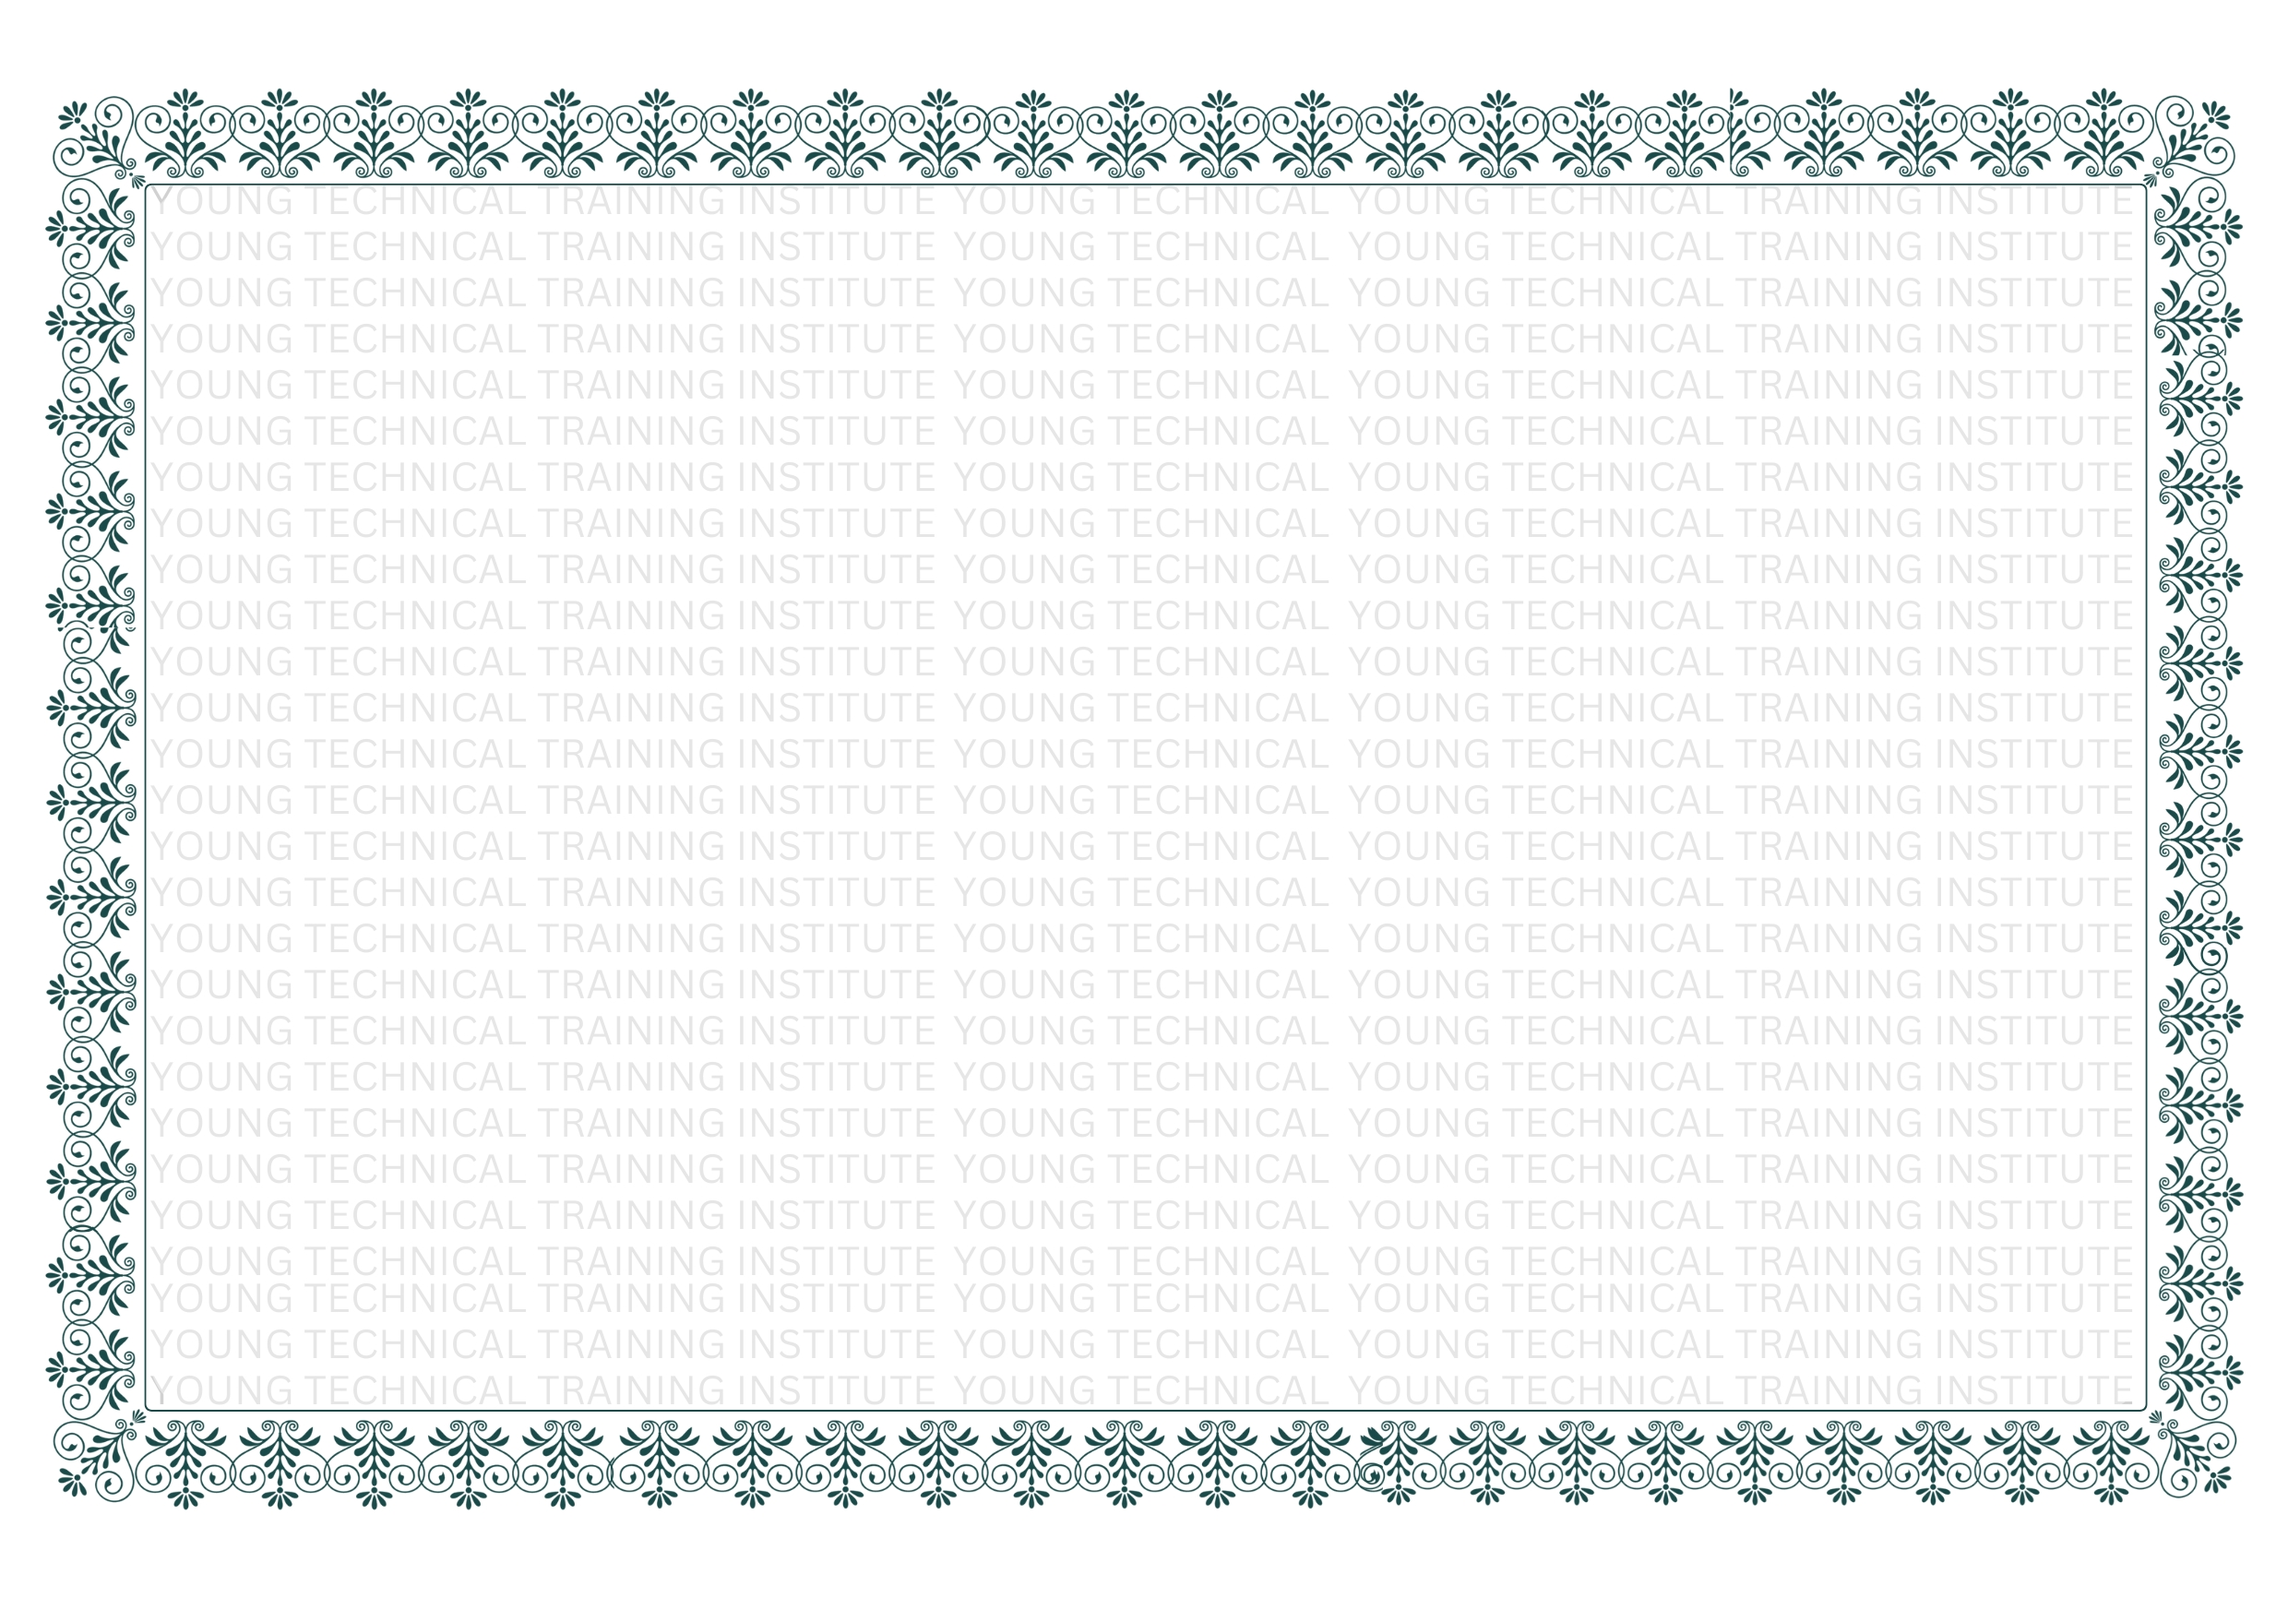
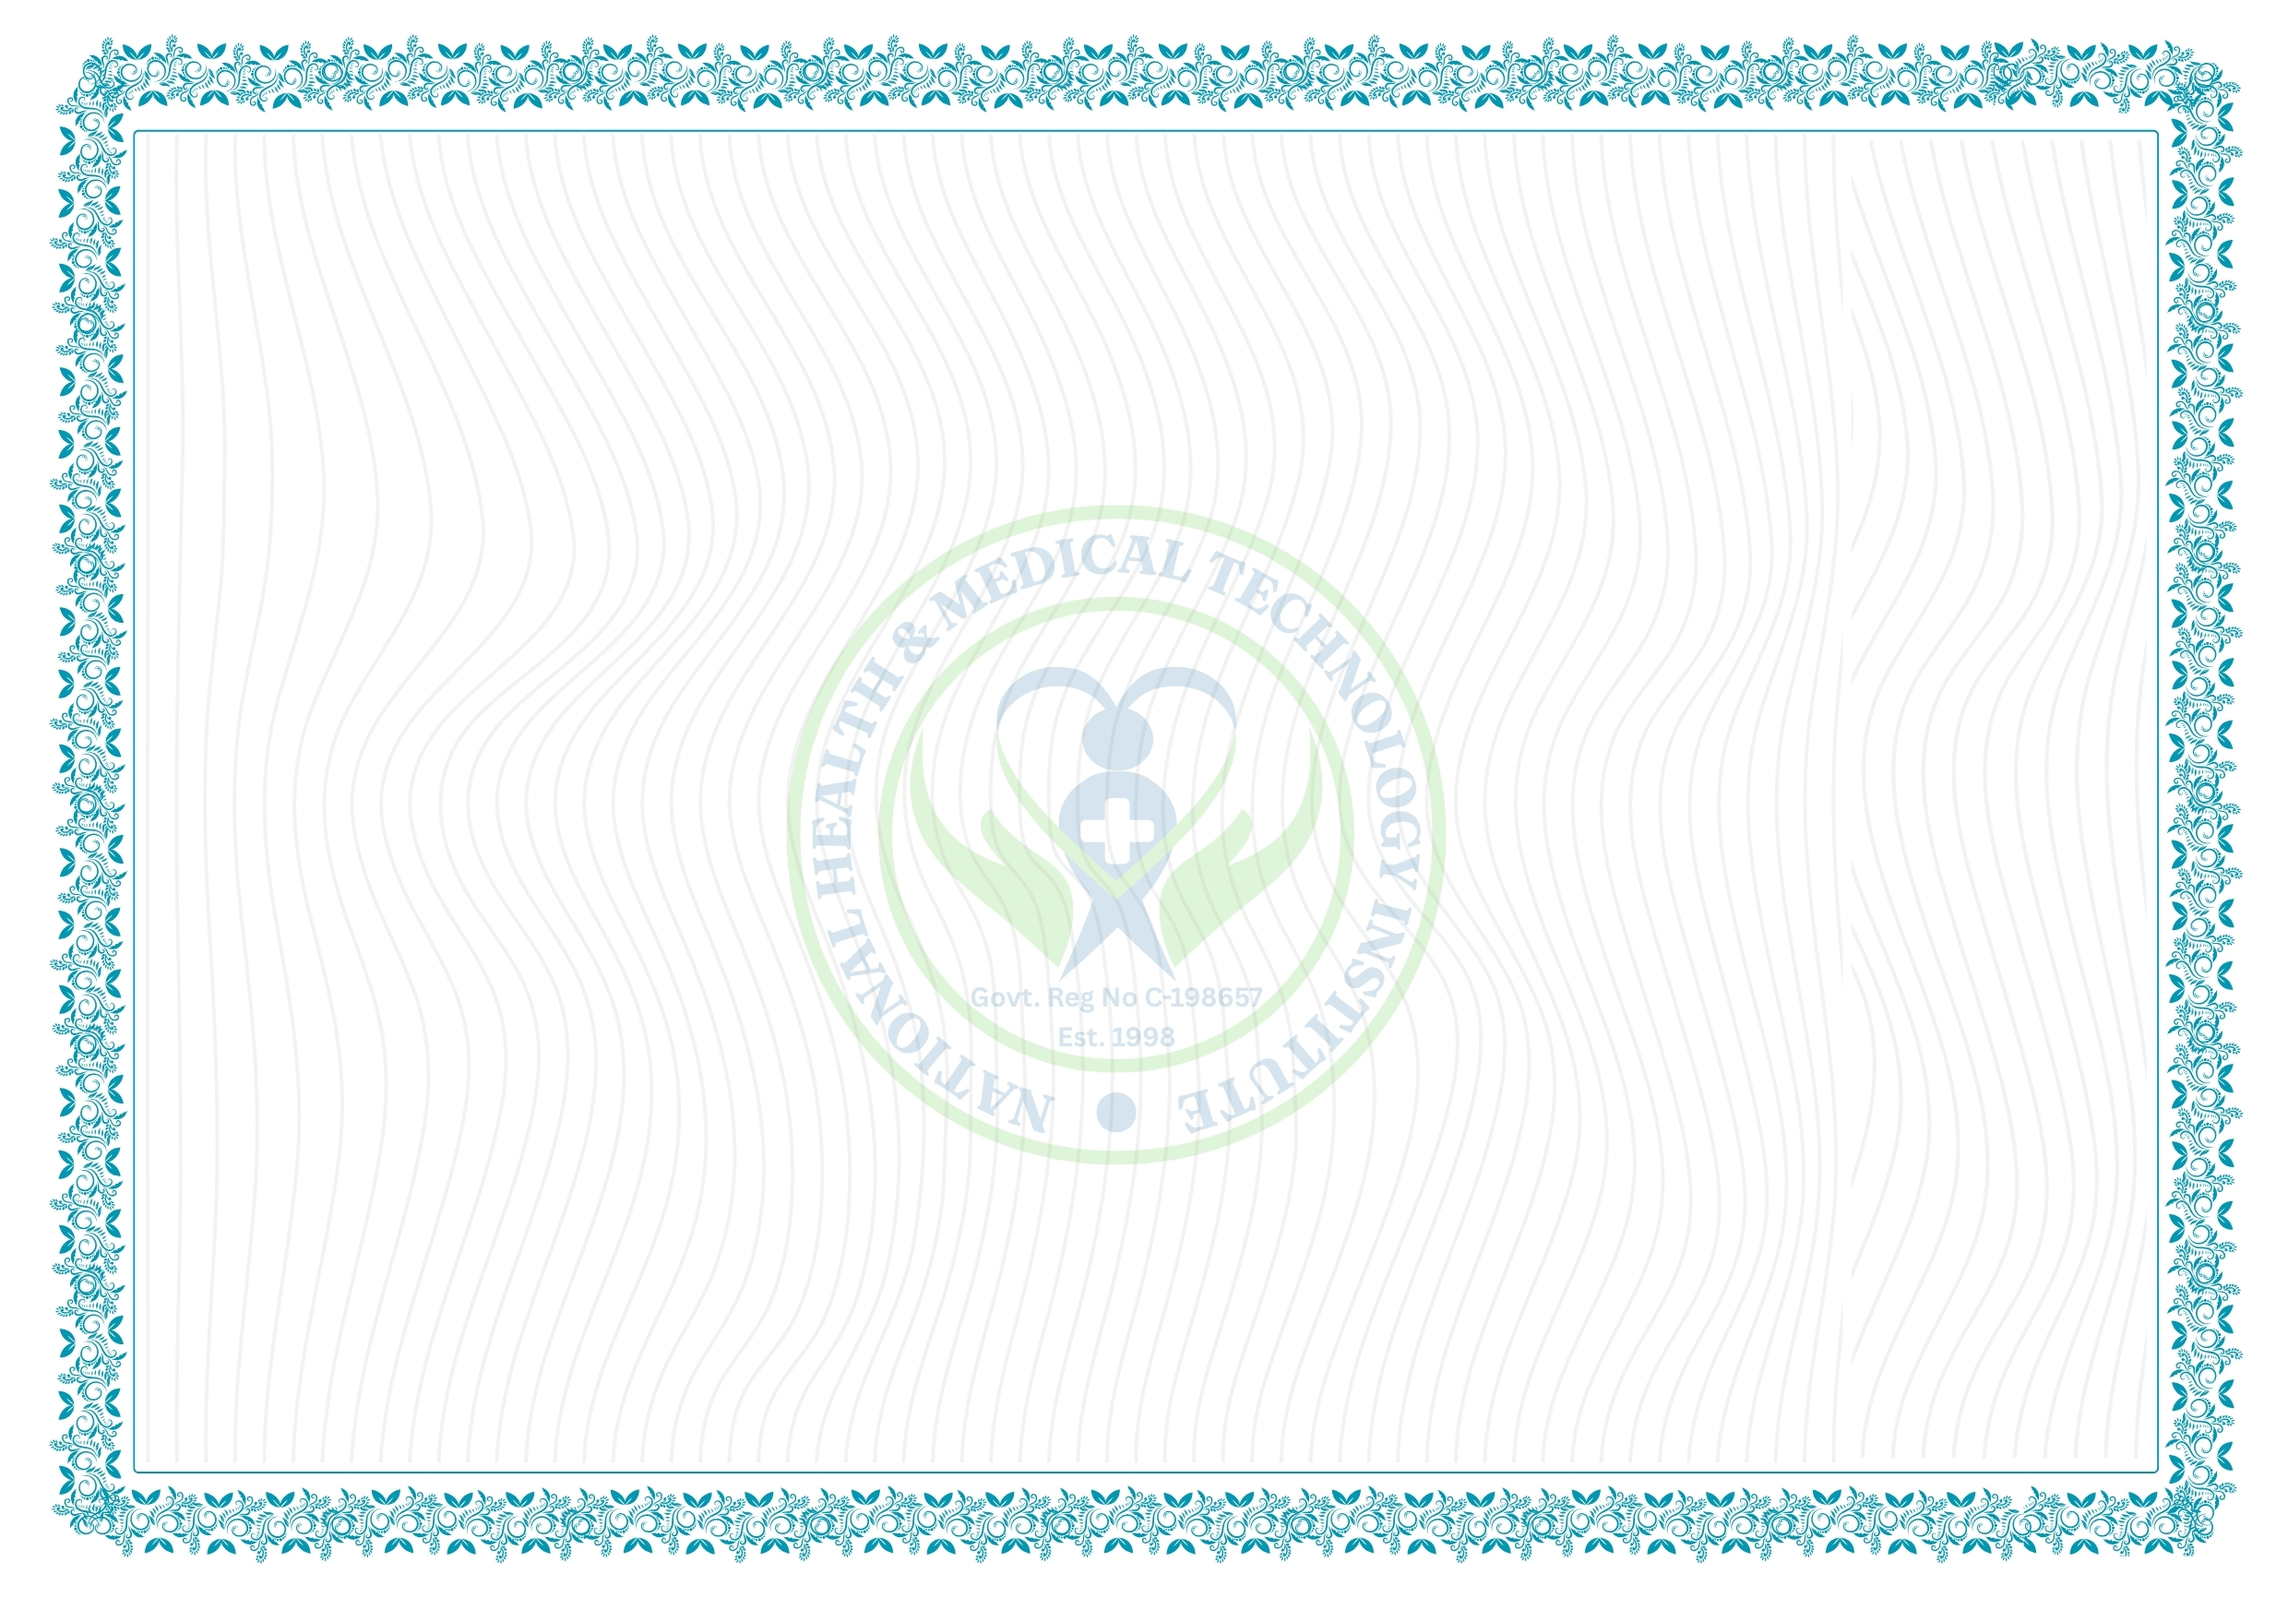
fix

diff --git a/resources/views/frontend/layouts/app.blade.php b/resources/views/frontend/layouts/app.blade.php
@@ -3,7 +3,7 @@
 <head>
     <meta charset="utf-8" />
     <meta name="viewport" content="width=device-width, initial-scale=1, shrink-to-fit=no" />
-    <title>Young Technical Training Center | Technical Education In Bd</title>
+    <title>National Health & Medical Technology Institute</title>
     <link rel="icon" href="{{\App\Lib\Image::url(\App\Models\ConfigDictionary::get('fav_icon'))??asset('frontend/logo.jpg')}}?v=223" />
 
     <link rel="stylesheet" href="{{asset('frontend/plugins/css/bootstrap.min.css')}}?v=2" />
@@ -21,7 +21,7 @@
     <link rel="apple-touch-icon" href="{{ asset('frontend/logo.jpg')}}?v=223" />
     <meta name="msapplication-TileImage" content="{{ asset('frontend/logo.jpg')}}?v=223" />
     <meta name="google-site-verification" content="Z0nEijotHP7ZORKAfkTDJrSIefDv4G3NB5gaq9wngsE" />
-    <meta name="description" content="Young Technical Training Center offers quality education in Bangladesh with modern methods, expert teachers, & diverse programs. Join now to shape your future!">
+    <meta name="description" content="National Health & Medical Technology Institute offers quality education in Bangladesh with modern methods, expert teachers, & diverse programs. Join now to shape your future!">
 
     <script async src="https://www.googletagmanager.com/gtag/js?id=G-J104V2KMHD"></script>
     <script>
@@ -460,7 +460,7 @@
             </div>
         </div>
     </div>
-    <h1  style="opacity: 0; font-size: 1px!important;">Young Technical Training Center | Technical Education In Bd</h1>
+    <h1  style="opacity: 0; font-size: 1px!important;">National Health & Medical Technology Institute</h1>
 </footer>
 <!-- End Footer Area -->
 

diff --git a/resources/views/components/student/registration-card.blade.php b/resources/views/components/student/registration-card.blade.php
@@ -168,7 +168,7 @@
                 <img src="{{asset('images/student/logo.png')}}" style="width: 140px;margin-top: -4px;" alt="logo" />
             </div>
             <div class="cert-headings w-82" style="margin-top: 20px">
-                <img src="{{asset('images/student/banner.png')}}" class="w-100" alt="">
+                <img src="{{asset('images/student/banner.jpg')}}" class="w-100" alt="">
                 <h5 class="normal-font" style="margin-left: 38px;"> Approved By Government of the People's Republic of Bangladesh.</h5>
             </div>
         </div>
@@ -286,7 +286,7 @@
             <div class="sign-cont text-center">
                 <img class="text-center" style="width: 200px" src="{{asset('images/student/examController.png')}}" alt="signature" />
                 <hr />
-                <p>Exam Controller <br /> yttc</p>
+                <p>Exam Controller <br /> nhml</p>
             </div>
         </div>
 
@@ -294,7 +294,7 @@
             <p></p>
             <ol>
                 <li>This Registration card is valid till 8 Consecutive years</li>
-                <li>For All Correspondence with the yttc, Institute code, registration number and session are to be mentioned
+                <li>For All Correspondence with the nhmi, Institute code, registration number and session are to be mentioned
                 </li>
                 <li>Scan the QR code and follow the link in the QR code to verify the Registration card from   </li>
             </ol>

diff --git a/app/Http/Controllers/Admin/StudentController.php b/app/Http/Controllers/Admin/StudentController.php
@@ -146,8 +146,8 @@ class StudentController extends Controller
             $student=Student::create($validated);
             $message = 'Congratulations!! ' . $student->name . ', You have successfully filled the application form for  '
                 . (Auth::user()->center->name ?? '') . ' Technician '
-                . ($student->subject->name ?? '') . ' under Young Technical Training Center. Your Roll No: '
-                . $student->roll . ' and Registration No: ' . $student->registration . '. Thanks for staying with Young Technical Training Center.';
+                . ($student->subject->name ?? '') . ' under National Health & Medical Technology Institute. Your Roll No: '
+                . $student->roll . ' and Registration No: ' . $student->registration . '. Thanks for staying with National Health & Medical Technology Institute.';
             Helper::sendSms($student->phone,$message);
             DB::commit();
             return response()->report($student, 'Student Created successfully');

diff --git a/app/Http/Controllers/StudentController.php b/app/Http/Controllers/StudentController.php
@@ -110,8 +110,8 @@ class StudentController extends Controller
         $student = Student::create($validated);
         $message = 'Congratulations!! ' . $student->name . ', You have successfully filled the application form for  '
             . (Auth::user()->center->name ?? '') . ' Technician '
-            . ($student->subject->name ?? '') . ' under Young Technical Training Center. Your Roll No: '
-            . $student->roll . ' and Registration No: ' . $student->registration . '. Thanks for staying with Young Technical Training Center.';
+            . ($student->subject->name ?? '') . ' under National Health & Medical Technology Institute. Your Roll No: '
+            . $student->roll . ' and Registration No: ' . $student->registration . '. Thanks for staying with National Health & Medical Technology Institute.';
         Helper::sendSms($student->phone,$message);
         return response()->report($student, 'Student Created successfully');
     }

diff --git a/resources/views/layouts/guest.blade.php b/resources/views/layouts/guest.blade.php
@@ -4,7 +4,7 @@
 <head>
     <meta charset="utf-8" />
     <meta http-equiv="X-UA-Compatible" content="IE=edge" />
-    <title>Young Technical Training Center</title>
+    <title>National Health & Medical Technology Institute</title>
     <link rel="icon" href="https://bangla-eschool.getupdemo.xyz/storage/files/1/school-favicon.png" />
 
     <link rel="stylesheet" href="{{asset('frontend/plugins/css/bootstrap.min.css')}}" />

diff --git a/resources/views/components/student/transcript.blade.php b/resources/views/components/student/transcript.blade.php
@@ -480,7 +480,7 @@
                 <div class="sign-cont text-center"  >
                     <img class="text-center" style="width: 200px" src="{{asset('images/student/examController.png')}}" alt="signature" />
                     <hr />
-                    <p>Exam Controller <br /> Yttc</p>
+                    <p>Exam Controller <br /> Nhmi</p>
                 </div>
             </div>
         </div>

diff --git a/resources/views/layouts/app.blade.php b/resources/views/layouts/app.blade.php
@@ -130,7 +130,7 @@
             </div>
         </main>
         <footer class="w-full p-2 text-center print:hidden">
-             yttc.com.bd
+         nhmi.com.bd
         </footer>
     </div>
 </div>
